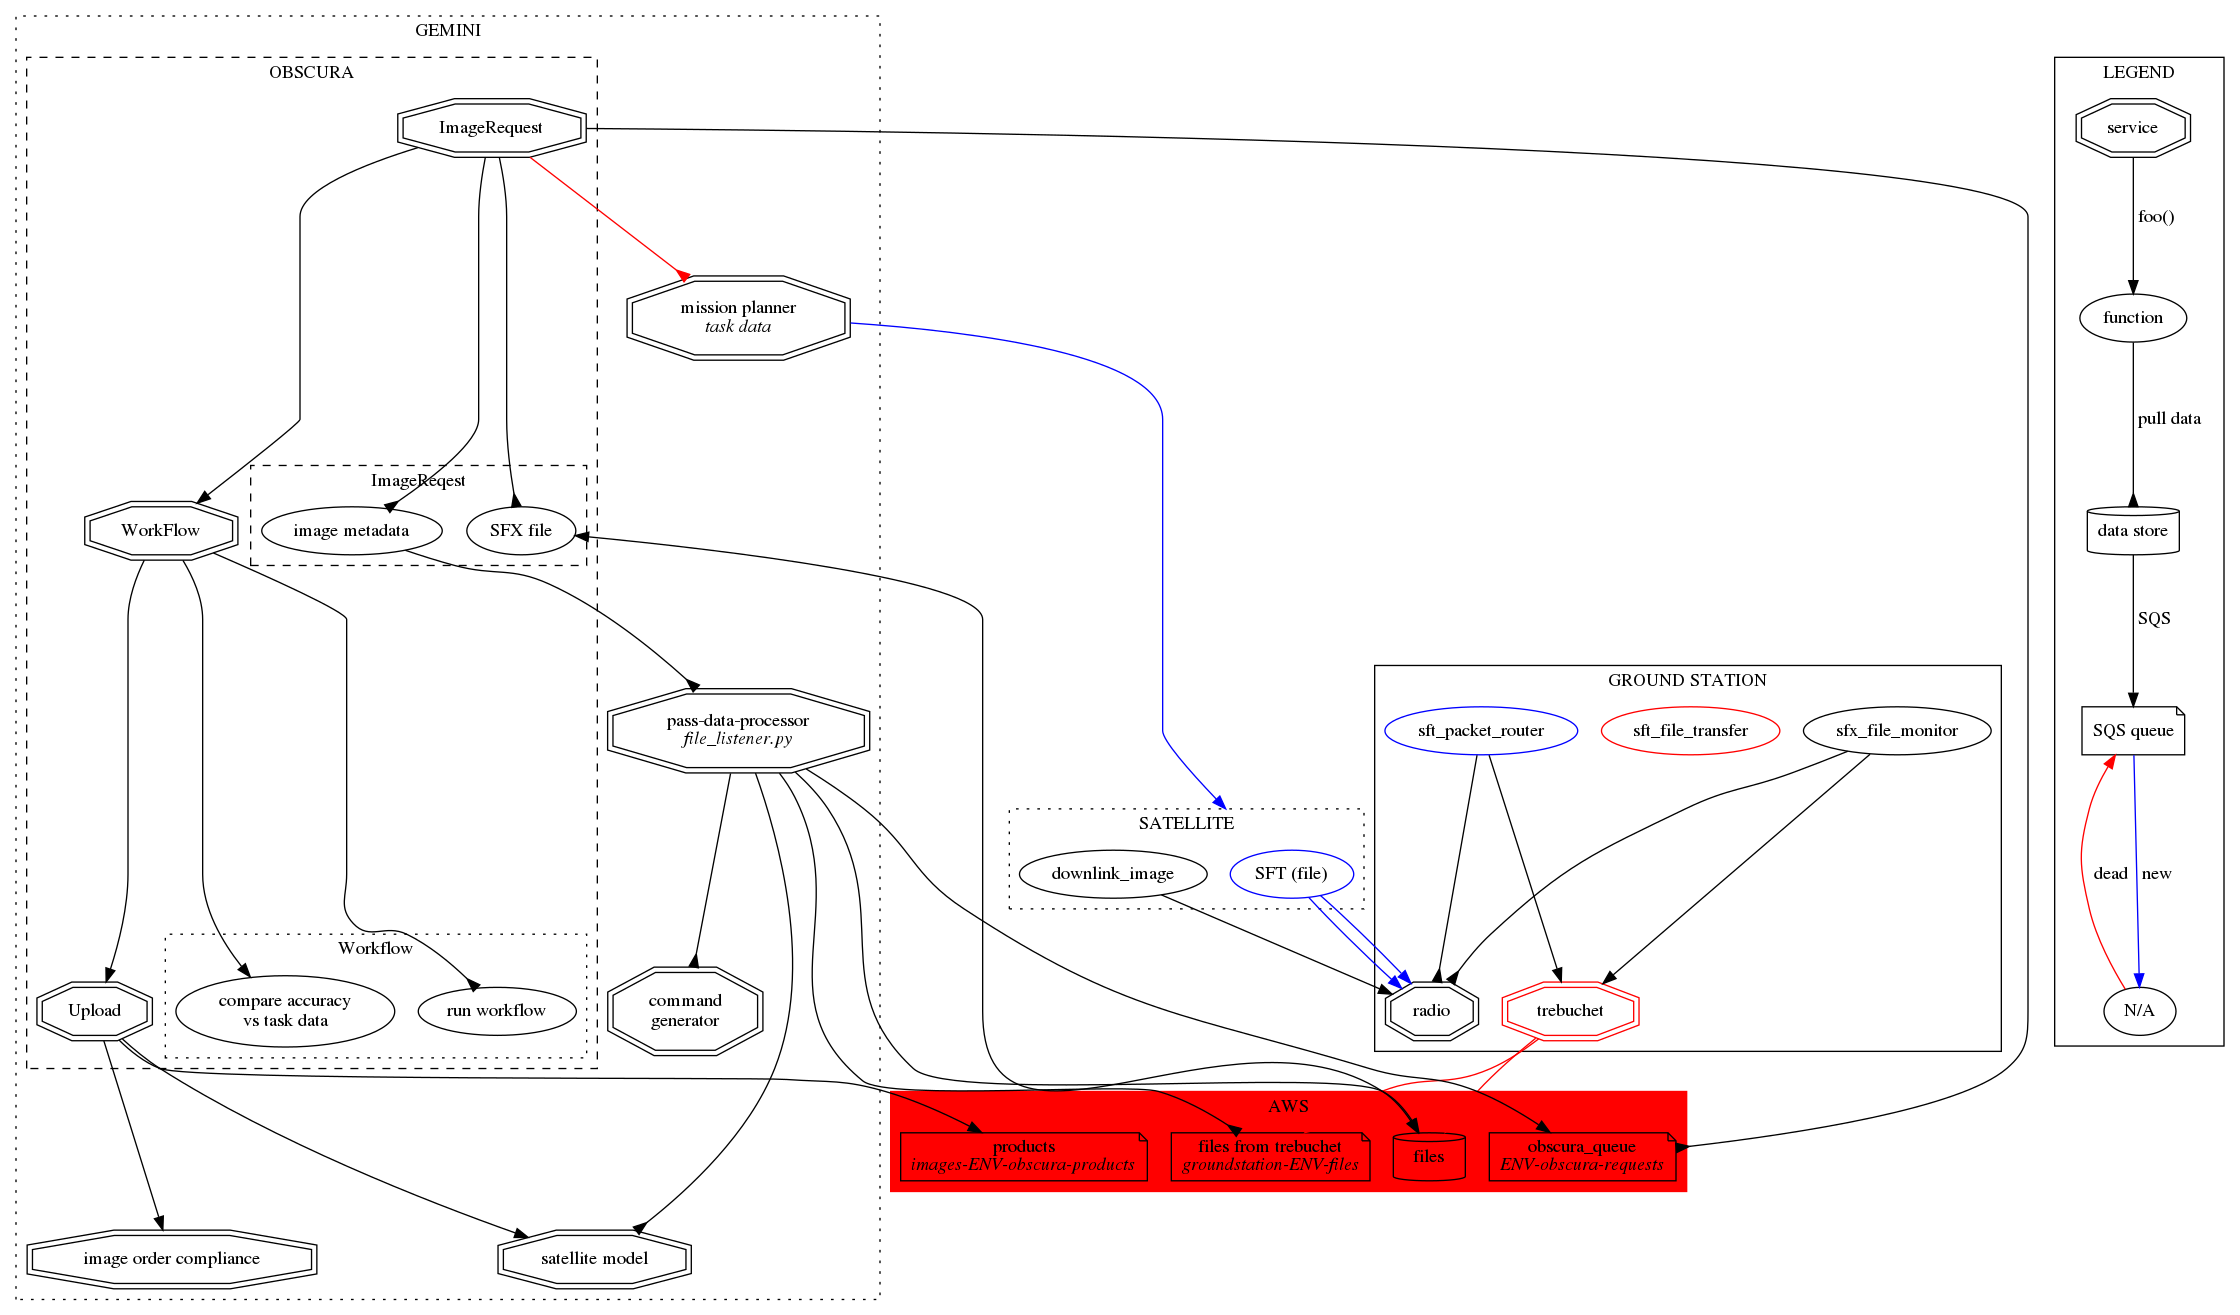
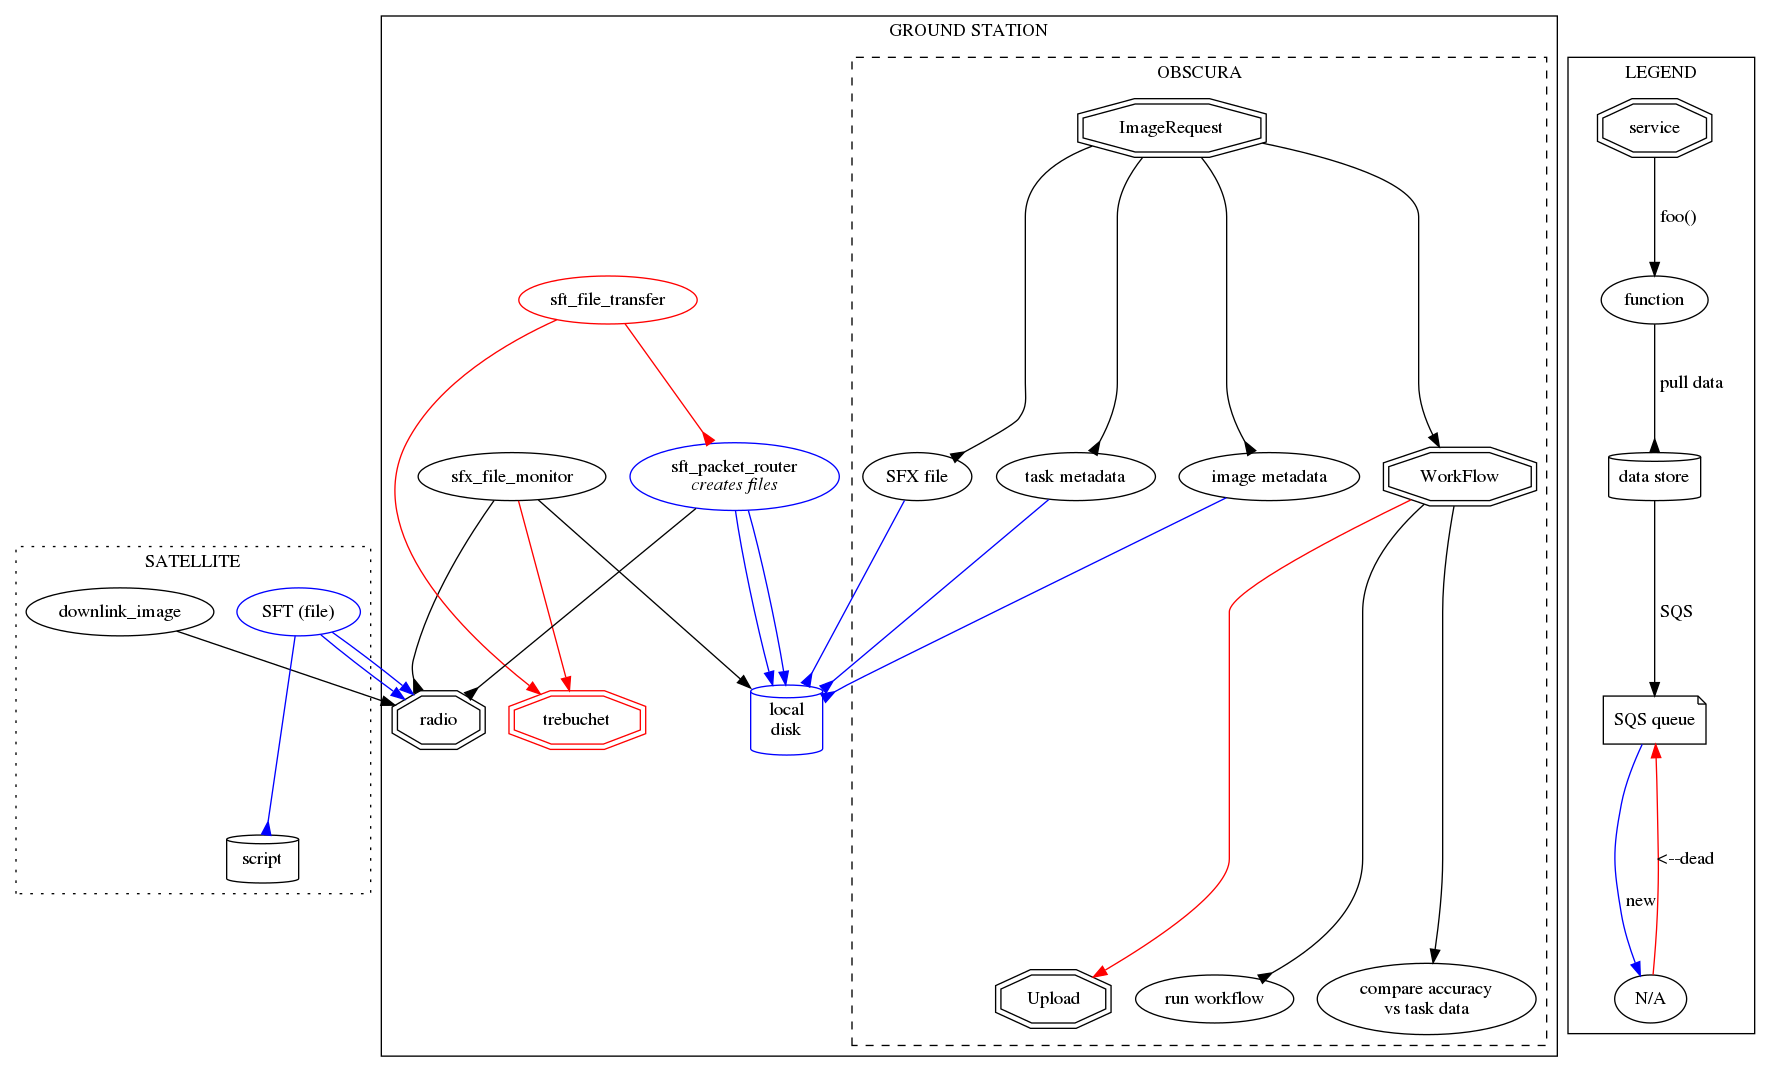
obscura graphs

diff --git a/Python/misc_blacksky/rgt_high_level_graph.py b/Python/misc_blacksky/rgt_high_level_graph.py
@@ -18,11 +18,13 @@ with G.subgraph(name='clustersat') as c:
     c.attr(label='SATELLITE', style='dotted')
     c.node('image', label='downlink_image', shape=process)
     c.node('metadata', label='SFT (file)', shape=process, color=new_line)
+    c.node('script', label='script', shape=data_store)
 
 G.edge('image', 'xband_radio', color=data_color)
 G.edge('metadata', 'xband_radio', color=new_line)
 G.edge('metadata', 'xband_radio', color=new_line)
-G.edge('planner', 'metadata', lhead='clustersat', color=new_line)
+# G.edge('planner', 'metadata', lhead='clustersat', color=new_line)
+G.edge('metadata', 'script', arrowhead='inv', color=new_line)
 
 # GROUNDSTATION
 with G.subgraph(name='clustergroundstation') as c:
@@ -30,75 +32,42 @@ with G.subgraph(name='clustergroundstation') as c:
     c.node('xband_radio', label='radio', shape=service_shape)
     c.node('rlm', label='sfx_file_monitor', shape=process)
     c.node('sft_old', label='sft_file_transfer', shape=process, color=dead_line)
-    c.node('sft', label='sft_packet_router', shape=process, color=new_line)
+    c.node('sft', label='<sft_packet_router<BR/><I>creates files</I>>', shape=process, color=new_line)
     c.node('trebuchet', shape=service_shape, color=dead_line)
+    c.node('local_storage', label='<local<BR/>disk>', shape=data_store, color=new_line)
+
+    # OBSCURA
+    with c.subgraph(name='clusterobscura') as obs:
+        obs.attr(label='OBSCURA', style='dashed')
+        obs.node('img_req', label='ImageRequest', shape=service_shape)
+        obs.node('workflow', label='WorkFlow', shape=service_shape)
+        obs.node('upload', label='Upload', shape=service_shape)
+        obs.node('get_sfx', label='SFX file', shape=process)
+        obs.node('get_metadata', label='image metadata', shape=process)
+        obs.node('get_task', label='task metadata', shape=process)
+        obs.node('run_wf', label='run workflow', shape=process)
+        obs.node('examine_task', label='<compare accuracy<BR/>vs task data>', shape=process)
+
+        G.edge('img_req', 'get_sfx', arrowhead='inv', color=data_color)
+        G.edge('img_req', 'get_task', arrowhead='inv', color=data_color)
+        G.edge('img_req', 'get_metadata', arrowhead='inv', color=data_color)
+        G.edge('get_sfx', 'local_storage', arrowhead='inv', color=new_line)
+        G.edge('get_task', 'local_storage', arrowhead='inv', color=new_line)
+        G.edge('get_metadata', 'local_storage', arrowhead='inv', color=new_line)
+        G.edge('img_req', 'workflow', color=sqs_color)
+        G.edge('workflow', 'run_wf', arrowhead='inv', color=data_color)
+        G.edge('workflow', 'examine_task', color=fx_call)
+        G.edge('workflow', 'upload', color=dead_line)
+
 
 G.edge('rlm', 'xband_radio', arrowhead='inv', color=data_color)
 G.edge('sft', 'xband_radio', arrowhead='inv', color=data_color)
-G.edge('rlm', 'trebuchet', color=fx_call)
-G.edge('sft', 'trebuchet', color=fx_call)
-G.edge('trebuchet', 'files_s3', color=dead_line)
-G.edge('trebuchet', 'env_files', color=dead_line)
-G.edge('pdp', 'env_files', arrowhead='inv', color=sqs_color)
-
-
-# AWS
-with G.subgraph(name='clusteraws') as c:
-    c.attr(label='AWS', style='filled', color=dead_line)
-    # c.node_attr.update(style='filled', color='white')
-    c.node('files_s3', label='files', shape=data_store)
-
-    c.node('obscura_queue', label='<obscura_queue<BR/><I>ENV-obscura-requests</I>>', shape=queue)
-    c.node('env_files', label='<files from trebuchet<BR/><I>groundstation-ENV-files</I>>', shape=queue)
-    c.node('final_product', label='<products<BR/><I>images-ENV-obscura-products</I>>', shape=queue)
-
-
-# GEMINI
-with G.subgraph(name='clustergemini') as gem:
-    gem.attr(label='GEMINI', style='dotted')
-    gem.node('pdp', label='<pass-data-processor<BR/><I>file_listener.py</I>>', shape=service_shape)
-    gem.node('satmodel', label='satellite model', shape=service_shape)
-    gem.node('compliance', label='image order compliance', shape=service_shape)
-    gem.node('planner', label='<mission planner<BR/><I>task data</I>>', shape=service_shape)
-    gem.node('cmd_gen', label='<command<BR/>generator>', shape=service_shape)
-
-    # OBSCURA
-    with gem.subgraph(name='clusterobscura') as c:
-        c.attr(label='OBSCURA', style='dashed')
-        c.node('img_req', label='ImageRequest', shape=service_shape)
-        c.node('workflow', label='WorkFlow', shape=service_shape)
-        c.node('upload', label='Upload', shape=service_shape)
-        with c.subgraph(name='clusterimgreq') as cc:
-            cc.attr(label='ImageReqest')
-            cc.node('get_sfx', label='SFX file', shape=process)
-            cc.node('get_metadata', label='image metadata', shape=process)
-        with c.subgraph(name='clusterwf') as cc:
-            cc.attr(label='Workflow', style='dotted')
-            cc.node('run_wf', label='run workflow', shape=process)
-            cc.node('examine_task', label='<compare accuracy<BR/>vs task data>', shape=process)
-        # with c.subgraph(name='clusterupdload') as cc:
-        #     cc.attr(label='Upload', style='dotted')
-
-G.edge('pdp', 'satmodel', arrowhead='inv', color=data_color)
-G.edge('pdp', 'cmd_gen', arrowhead='inv', color=data_color)
-G.edge('pdp', 'files_s3', color=data_color)
-G.edge('pdp', 'obscura_queue', color=sqs_color)
-
-G.edge('img_req', 'obscura_queue', arrowhead='inv', color=sqs_color)
-G.edge('img_req', 'get_sfx', arrowhead='inv', color=data_color)
-G.edge('get_sfx', 'files_s3', dir='both', color=data_color)
-G.edge('img_req', 'get_metadata', arrowhead='inv', color=data_color)
-G.edge('get_metadata', 'pdp', arrowhead='inv', color=data_color)
-G.edge('img_req', 'planner', arrowhead='inv', color=dead_line)
-
-G.edge('img_req', 'workflow', color=sqs_color)
-G.edge('workflow', 'run_wf', arrowhead='inv', color=data_color)
-G.edge('workflow', 'examine_task', color=fx_call)
-
-G.edge('workflow', 'upload', color=sqs_color)
-G.edge('upload', 'final_product', color=data_color)
-G.edge('upload', 'satmodel', color=fx_call)
-G.edge('upload', 'compliance', color=fx_call)
+G.edge('sft_old', 'sft', arrowhead='inv', color=dead_line)
+G.edge('rlm', 'trebuchet', color=dead_line)
+G.edge('sft_old', 'trebuchet', color=dead_line)
+G.edge('rlm', 'local_storage', color=data_color)
+G.edge('sft', 'local_storage', color=new_line)
+G.edge('sft', 'local_storage', color=new_line)
 
 
 with G.subgraph(name='clusterlegend') as legend:
@@ -112,8 +81,8 @@ with G.subgraph(name='clusterlegend') as legend:
     legend.edge('a', 'b', label=' foo()', color=fx_call)
     legend.edge('b', 'c', label=' pull data', arrowhead='inv', color=data_color)
     legend.edge('c', 'd', label=' SQS', color=sqs_color)
-    legend.edge('d', 'e', label=' new', color=new_line)
-    legend.edge('e', 'd', label=' dead', color=dead_line)
+    legend.edge('d', 'e', label='<<BR/><BR/><BR/><BR/> new>', color=new_line)
+    legend.edge('e', 'd', label='<--dead', color=dead_line)
 
 # G.attr(engine='neato')
 # G.attr(layout='fdp')

diff --git a/Python/misc_blacksky/obscura_high_level_graph.py b/Python/misc_blacksky/obscura_high_level_graph.py
@@ -26,13 +26,13 @@ with G.subgraph(name='clustergroundstation') as c:
     c.attr(label='GROUND STATION')
     c.node('xband_radio', label='radio', shape=service_shape)
     c.node('rlm', label='sfx_file_monitor', shape=process)
-    c.node('sft', label='sft_file_transfer', shape=process)
+    c.node('sft_file', label='<sft_file_transfer<BR/><I>via sft-packet-router</I>>', shape=process)
     c.node('trebuchet', shape=service_shape)
 
 G.edge('rlm', 'xband_radio', dir='forward', arrowhead='inv', color=data_color)
-G.edge('sft', 'xband_radio', dir='forward', arrowhead='inv', color=data_color)
+G.edge('sft_file', 'xband_radio', dir='forward', arrowhead='inv', color=data_color)
 G.edge('rlm', 'trebuchet', color=fx_call)
-G.edge('sft', 'trebuchet', color=fx_call)
+G.edge('sft_file', 'trebuchet', color=fx_call)
 G.edge('trebuchet', 'files_s3', color=data_color)
 G.edge('trebuchet', 'env_files', color=sqs_color)
 G.edge('pdp', 'env_files', dir='forward', arrowhead='inv', color=sqs_color)
@@ -64,28 +64,24 @@ with G.subgraph(name='clustergemini') as gem:
         c.node('img_req', label='ImageRequest', shape=service_shape)
         c.node('workflow', label='WorkFlow', shape=service_shape)
         c.node('upload', label='Upload', shape=service_shape)
-        with c.subgraph(name='clusterimgreq') as cc:
-            cc.attr(label='ImageReqest')
-            cc.node('get_sfx', label='SFX file', shape=process)
-            cc.node('get_metadata', label='image metadata', shape=process)
-        with c.subgraph(name='clusterwf') as cc:
-            cc.attr(label='Workflow', style='dotted')
-            cc.node('run_wf', label='run workflow', shape=process)
-            cc.node('examine_task', label='<compare accuracy<BR/>vs task data>', shape=process)
-        # with c.subgraph(name='clusterupdload') as cc:
-        #     cc.attr(label='Upload', style='dotted')
+        c.node('get_sfx', label='SFX file', shape=process)
+        c.node('get_metadata', label='image metadata', shape=process)
+        c.node('get_task', label='task metadata', shape=process)
+        c.node('run_wf', label='run workflow', shape=process)
+        c.node('examine_task', label='<compare accuracy<BR/>vs task data>', shape=process)
 
 G.edge('pdp', 'satmodel', arrowhead='inv', dir='forward', color=data_color)
 G.edge('pdp', 'cmd_gen', arrowhead='inv', dir='forward', color=data_color)
-G.edge('pdp', 'files_s3', color=data_color)
+G.edge('pdp', 'files_s3', color=data_color)  # decrypted image_metadata files
 G.edge('pdp', 'obscura_queue', color=sqs_color)
 
 G.edge('img_req', 'obscura_queue', arrowhead='inv', dir='forward', color=sqs_color)
 G.edge('img_req', 'get_sfx', arrowhead='inv', dir='forward', color=data_color)
+G.edge('img_req', 'get_task', arrowhead='inv', dir='forward', color=data_color)
 G.edge('get_sfx', 'files_s3', dir='both', color=data_color)
 G.edge('img_req', 'get_metadata', arrowhead='inv', dir='forward', color=data_color)
 G.edge('get_metadata', 'pdp', arrowhead='inv', dir='forward', color=data_color)
-G.edge('img_req', 'planner', arrowhead='inv', dir='forward', color=data_color)
+G.edge('get_task', 'planner', arrowhead='inv', dir='forward', color=data_color)
 
 G.edge('img_req', 'workflow', color=sqs_color)
 G.edge('workflow', 'run_wf', arrowhead='inv', dir='forward', color=data_color)
